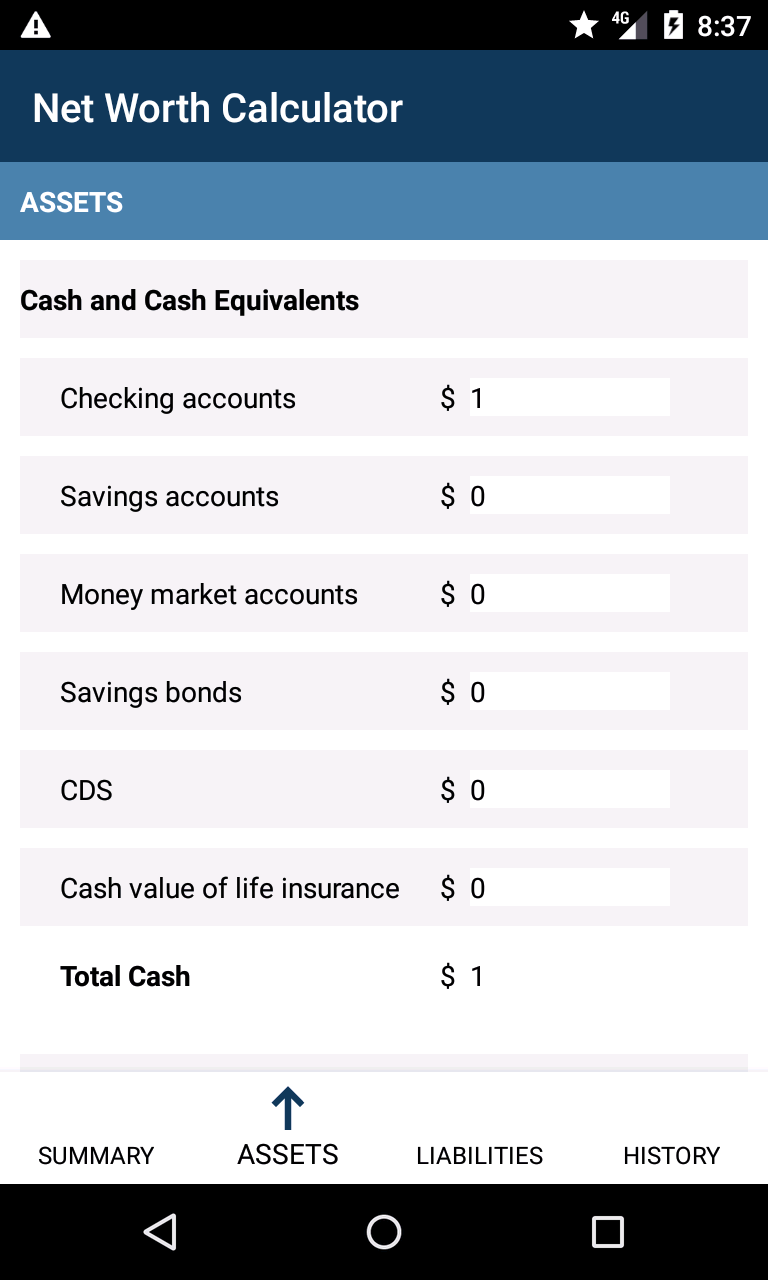
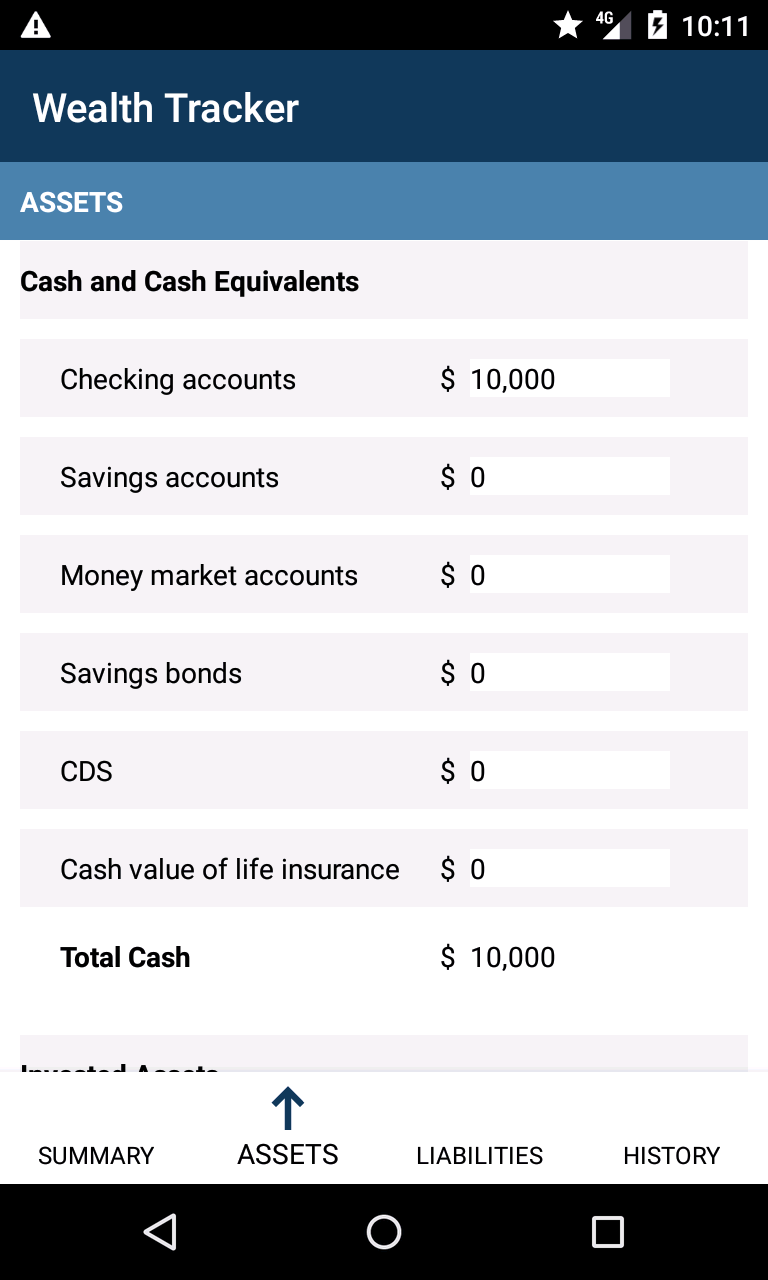
Bug removal and image upload

diff --git a/app/src/main/java/com/nile/networthcalculator/ui/summary/SummaryFragment.java b/app/src/main/java/com/nile/networthcalculator/ui/summary/SummaryFragment.java
@@ -3,46 +3,26 @@ package com.nile.networthcalculator.ui.summary;
 import android.content.Context;
 import android.graphics.Color;
 import android.os.Bundle;
-
 import androidx.fragment.app.Fragment;
 import androidx.lifecycle.ViewModelProviders;
 import androidx.navigation.NavDirections;
 import androidx.navigation.Navigation;
-
 import android.util.Log;
 import android.view.LayoutInflater;
 import android.view.View;
 import android.view.ViewGroup;
-
 import com.github.mikephil.charting.charts.BarChart;
-import com.github.mikephil.charting.charts.HorizontalBarChart;
-import com.github.mikephil.charting.charts.PieChart;
-import com.github.mikephil.charting.components.AxisBase;
-import com.github.mikephil.charting.components.Legend;
-import com.github.mikephil.charting.components.LegendEntry;
 import com.github.mikephil.charting.components.XAxis;
-import com.github.mikephil.charting.components.YAxis;
 import com.github.mikephil.charting.data.BarData;
 import com.github.mikephil.charting.data.BarDataSet;
 import com.github.mikephil.charting.data.BarEntry;
 import com.github.mikephil.charting.data.Entry;
-import com.github.mikephil.charting.data.PieData;
-import com.github.mikephil.charting.data.PieDataSet;
-import com.github.mikephil.charting.data.PieEntry;
-import com.github.mikephil.charting.formatter.IAxisValueFormatter;
-import com.github.mikephil.charting.formatter.IValueFormatter;
 import com.github.mikephil.charting.formatter.IndexAxisValueFormatter;
 import com.github.mikephil.charting.highlight.Highlight;
-import com.github.mikephil.charting.interfaces.datasets.IBarDataSet;
 import com.github.mikephil.charting.listener.OnChartValueSelectedListener;
-import com.github.mikephil.charting.utils.ColorTemplate;
-import com.github.mikephil.charting.utils.ViewPortHandler;
-import com.nile.networthcalculator.AssetSummaryFragment;
 import com.nile.networthcalculator.BalanceSheetModel;
 import com.nile.networthcalculator.R;
-
 import java.util.ArrayList;
-import java.util.List;
 
 public class SummaryFragment extends Fragment {
 

diff --git a/app/src/main/java/com/nile/networthcalculator/ui/liabilities/LiabilityFragment.java b/app/src/main/java/com/nile/networthcalculator/ui/liabilities/LiabilityFragment.java
@@ -1,23 +1,18 @@
 package com.nile.networthcalculator.ui.liabilities;
 
 import android.os.Bundle;
-
 import androidx.fragment.app.Fragment;
 import androidx.lifecycle.ViewModelProviders;
-
 import android.view.LayoutInflater;
 import android.view.View;
 import android.view.ViewGroup;
 import android.widget.Button;
 import android.widget.EditText;
 import android.widget.TextView;
-
 import static com.nile.networthcalculator.util.Utilities.parseDouble;
-
 import com.nile.networthcalculator.BalanceSheetModel;
 import com.nile.networthcalculator.BalanceSheetModelFactory;
 import com.nile.networthcalculator.R;
-
 import java.text.NumberFormat;
 
 public class LiabilityFragment extends Fragment {
@@ -53,14 +48,14 @@ public class LiabilityFragment extends Fragment {
 
         final View currentTable = root.findViewById(R.id.current_liability_table);
         final View longTermTable = root.findViewById(R.id.long_term_liability_table);
-        Button calculateButton = root.findViewById(R.id.update_btn);
+        Button updateBtn = root.findViewById(R.id.update_btn);
         Button saveBtn = root.findViewById(R.id.save_btn);
         Button resetBtn = root.findViewById(R.id.reset_btn);
 
         fetchTableReferences(root, currentTable, longTermTable);
         populateTables(viewModel);
 
-        calculateButton.setOnClickListener(new View.OnClickListener() {
+        updateBtn.setOnClickListener(new View.OnClickListener() {
             @Override
             public void onClick(View v) {
                 persistTableEntries(viewModel);
@@ -93,6 +88,7 @@ public class LiabilityFragment extends Fragment {
         super.onPause();
         BalanceSheetModel viewModel = ViewModelProviders.of(getActivity(), new BalanceSheetModelFactory(getActivity().getContentResolver())).get(BalanceSheetModel.class);
         persistTableEntries(viewModel);
+        updateTotals(viewModel);
     }
 
     public void fetchTableReferences(View root, View currentTable, View longTermTable) {

diff --git a/app/src/main/java/com/nile/networthcalculator/ui/assets/AssetFragment.java b/app/src/main/java/com/nile/networthcalculator/ui/assets/AssetFragment.java
@@ -1,7 +1,6 @@
 package com.nile.networthcalculator.ui.assets;
 
 import android.os.Bundle;
-
 import android.util.Log;
 import android.view.LayoutInflater;
 import android.view.View;
@@ -9,16 +8,12 @@ import android.view.ViewGroup;
 import android.widget.Button;
 import android.widget.EditText;
 import android.widget.TextView;
-
 import androidx.fragment.app.Fragment;
 import androidx.lifecycle.ViewModelProviders;
-
 import com.nile.networthcalculator.BalanceSheetModel;
 import com.nile.networthcalculator.BalanceSheetModelFactory;
 import com.nile.networthcalculator.R;
-
 import java.text.NumberFormat;
-
 import static com.nile.networthcalculator.util.Utilities.parseDouble;
 
 public class AssetFragment extends Fragment {
@@ -117,6 +112,7 @@ public class AssetFragment extends Fragment {
         Log.d("Something happening", "onPause: here! ");
         BalanceSheetModel viewModel = ViewModelProviders.of(getActivity(), new BalanceSheetModelFactory(getActivity().getContentResolver())).get(BalanceSheetModel.class);
         persistTableEntries(viewModel);
+        updateTotals(viewModel);
     }
 
     public void fetchTableReferences(View root, View cashTable, View investedAssetsTable, View useAssetsTable) {

diff --git a/app/src/main/java/com/nile/networthcalculator/AssetSummaryFragment.java b/app/src/main/java/com/nile/networthcalculator/AssetSummaryFragment.java
@@ -1,18 +1,13 @@
 package com.nile.networthcalculator;
 
 import android.os.Bundle;
-
-import androidx.annotation.NonNull;
 import androidx.fragment.app.Fragment;
 import androidx.lifecycle.ViewModelProviders;
-
 import android.util.Log;
 import android.view.LayoutInflater;
 import android.view.MenuItem;
 import android.view.View;
 import android.view.ViewGroup;
-import android.widget.Toolbar;
-
 import com.github.mikephil.charting.charts.PieChart;
 import com.github.mikephil.charting.data.Entry;
 import com.github.mikephil.charting.data.PieData;
@@ -21,13 +16,10 @@ import com.github.mikephil.charting.data.PieEntry;
 import com.github.mikephil.charting.formatter.IValueFormatter;
 import com.github.mikephil.charting.utils.ColorTemplate;
 import com.github.mikephil.charting.utils.ViewPortHandler;
-
 import java.util.ArrayList;
 import java.util.List;
 
 public class AssetSummaryFragment extends Fragment {
-
-    // TODO: Get back button to SummaryFragment working
 
     String TAG = "Asset summary fragment";
 

diff --git a/app/src/main/java/com/nile/networthcalculator/BalanceSheetModel.java b/app/src/main/java/com/nile/networthcalculator/BalanceSheetModel.java
@@ -6,9 +6,7 @@ import android.content.ContentValues;
 import android.database.Cursor;
 import android.net.Uri;
 import android.util.Log;
-
 import androidx.lifecycle.ViewModel;
-
 import java.util.Calendar;
 import java.util.HashMap;
 import java.util.Map;
@@ -130,7 +128,7 @@ public class BalanceSheetModel extends ViewModel {
     public void storeAssets() {
         ContentValues[] values = new ContentValues[34];
         for (int i = 0; i < values.length; i++)
-            values[i] = new ContentValues(2);
+            values[i] = new ContentValues(1);
         values[0].put(COLUMN_VALUE, cash_entries[0]);
         values[1].put(COLUMN_VALUE, cash_entries[1]);
         values[2].put(COLUMN_VALUE, cash_entries[2]);

diff --git a/app/src/main/java/com/nile/networthcalculator/util/Utilities.java b/app/src/main/java/com/nile/networthcalculator/util/Utilities.java
@@ -1,11 +1,18 @@
 package com.nile.networthcalculator.util;
 
+import android.util.Log;
+import java.text.NumberFormat;
+import java.text.ParseException;
+
 public class Utilities {
+
+    final private static String TAG = "Utilities";
 
     public static double parseDouble(String s) {
         try {
-            return Double.parseDouble(s);
-        } catch (NumberFormatException e) {
+            return (double)NumberFormat.getInstance().parse(s).longValue();
+        } catch (ParseException e) {
+            Log.e(TAG, "String to double conversion error");
             return 0;
         }
     }

diff --git a/app/src/main/java/com/nile/networthcalculator/MainActivity.java b/app/src/main/java/com/nile/networthcalculator/MainActivity.java
@@ -5,7 +5,6 @@ import android.database.Cursor;
 import android.net.Uri;
 import android.os.Bundle;
 import android.util.Log;
-
 import androidx.appcompat.app.AppCompatActivity;
 import androidx.appcompat.widget.Toolbar;
 import androidx.lifecycle.ViewModelProviders;
